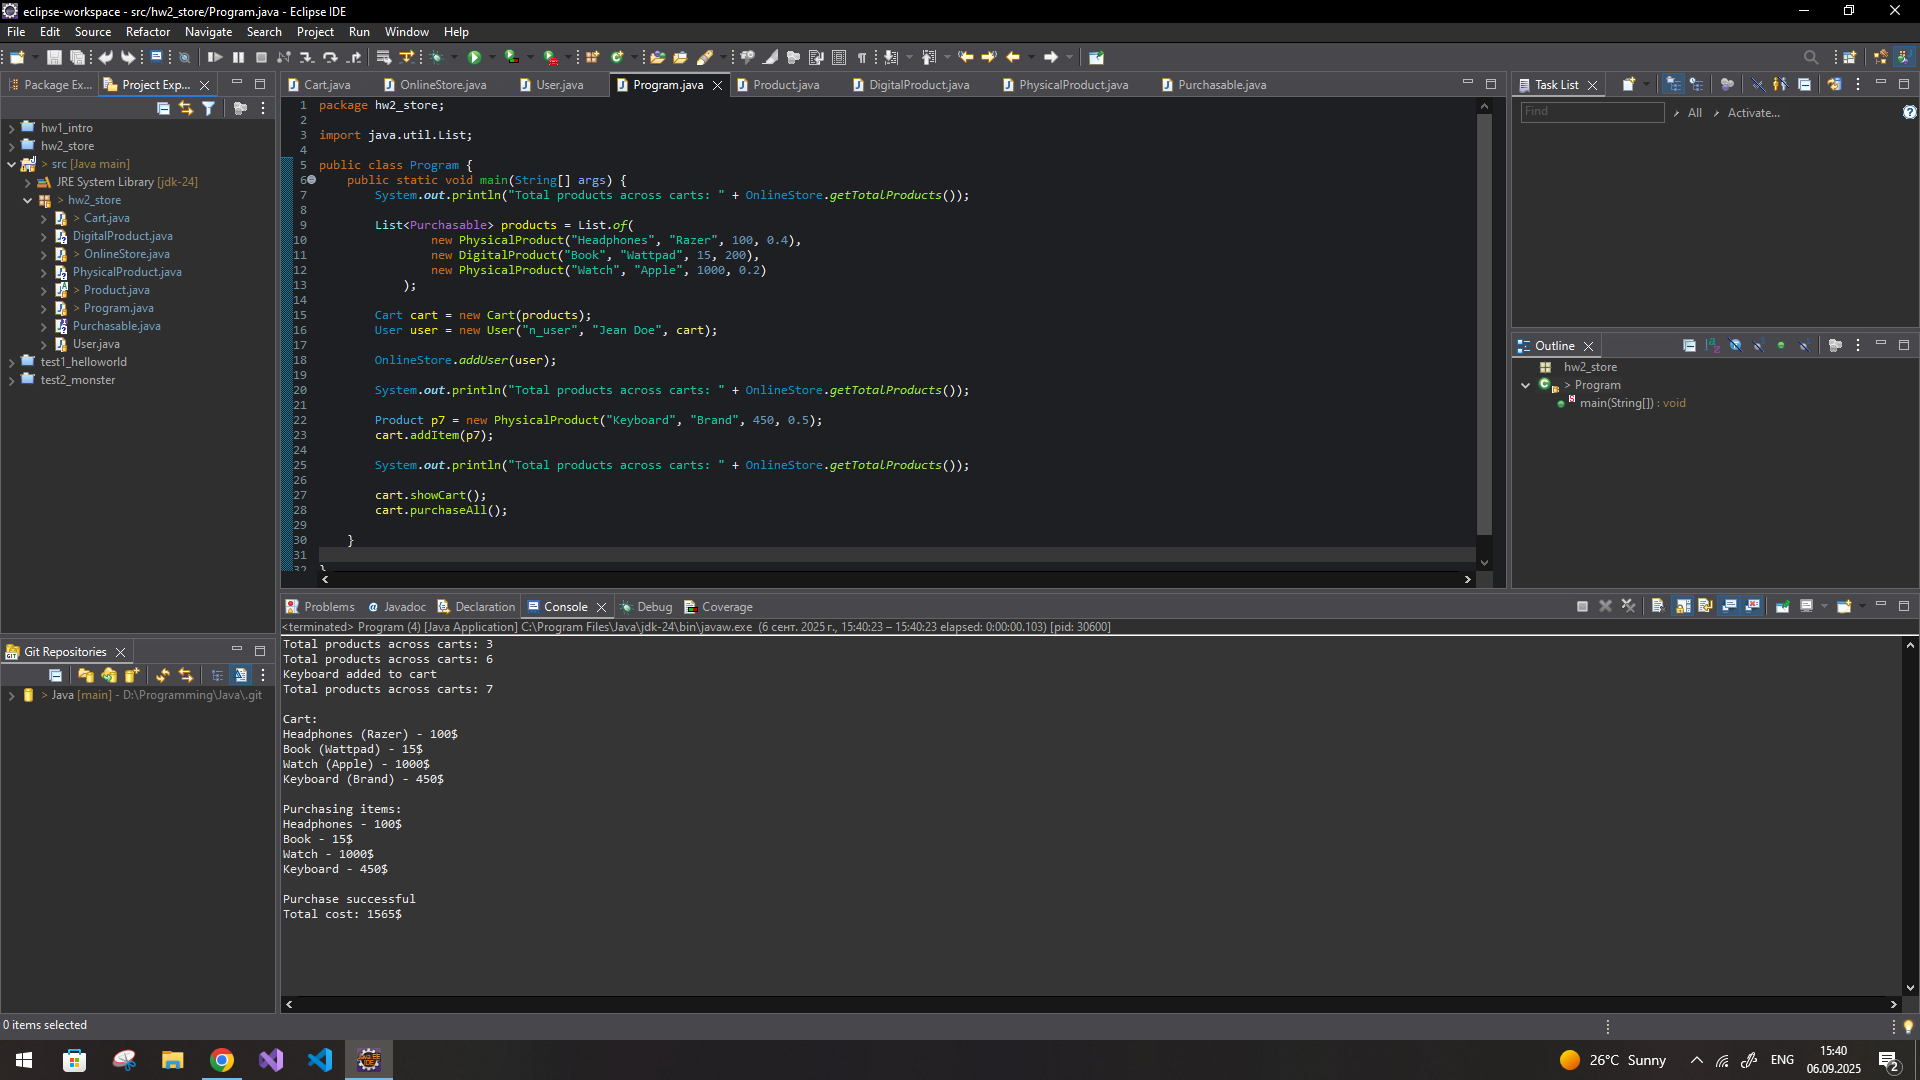
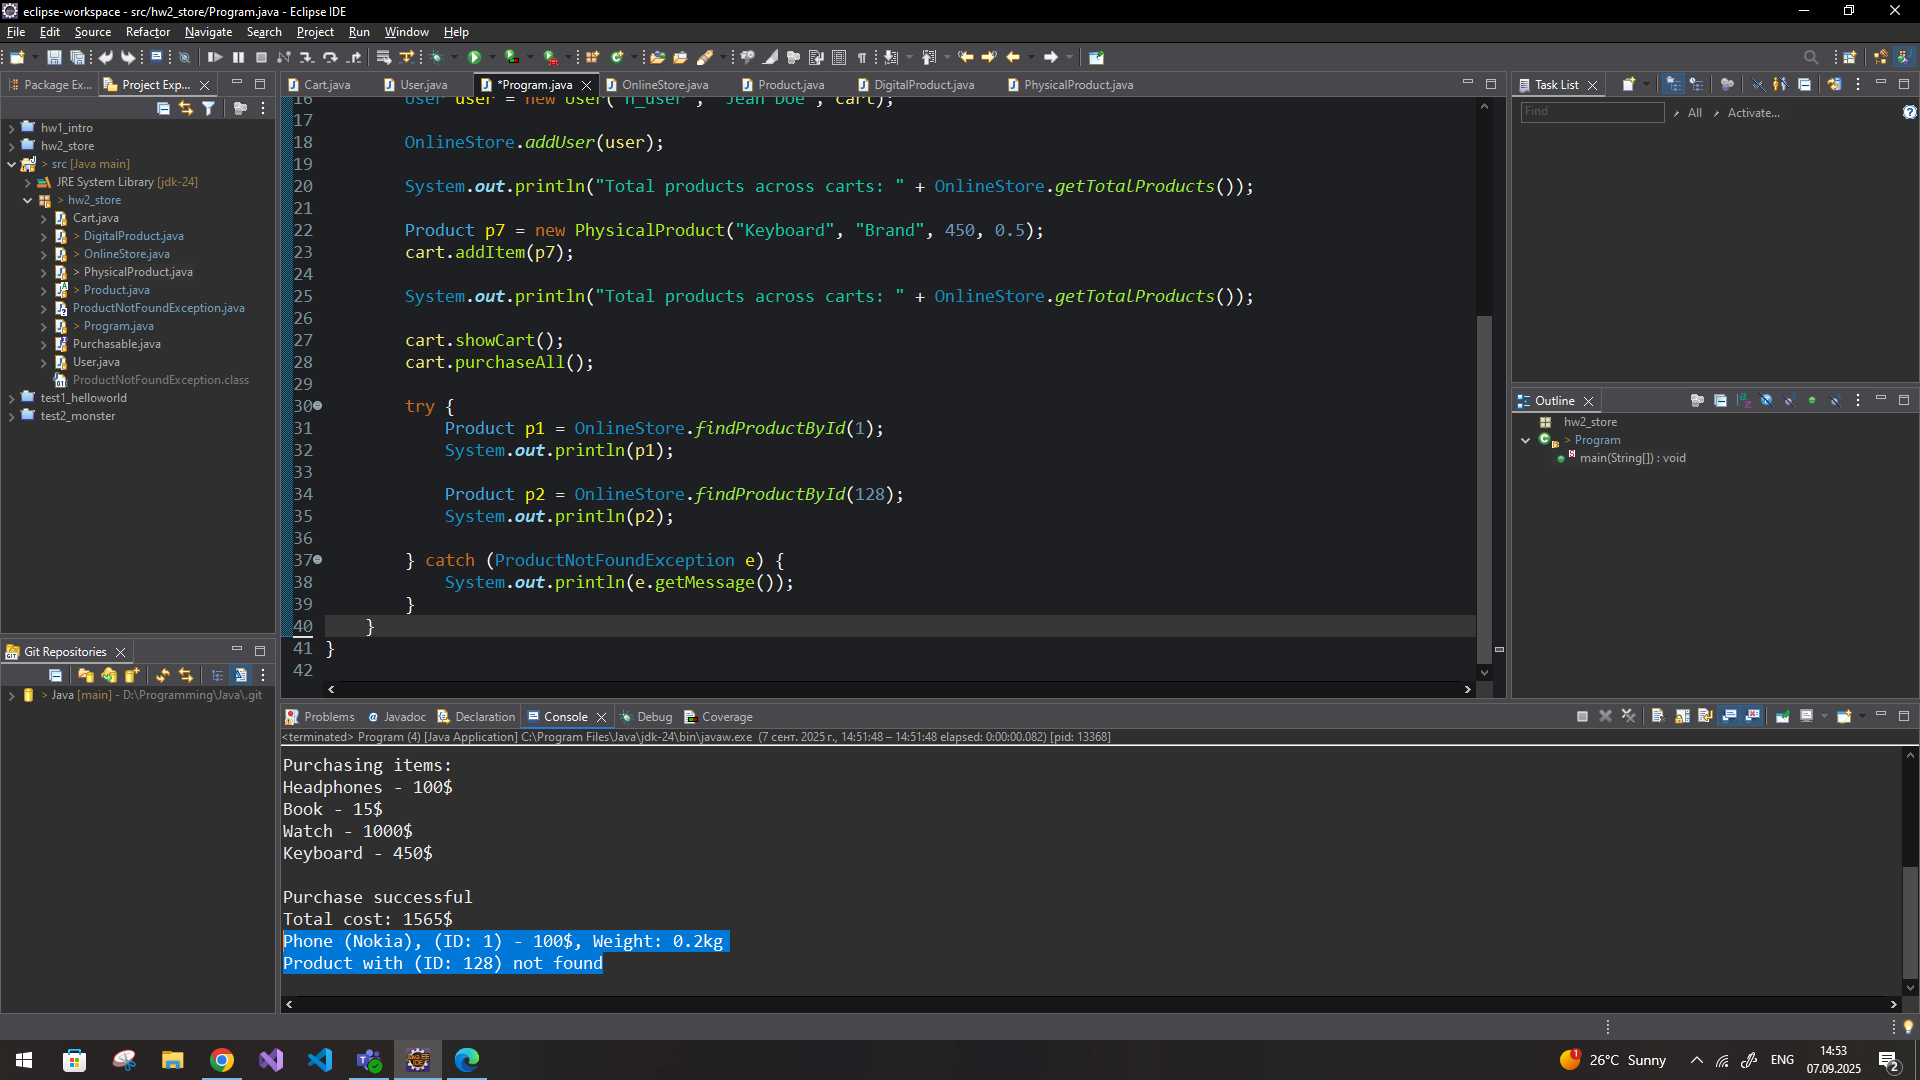
add ProductNotFoundException

diff --git a/hw2_store/src/hw2_store/OnlineStore.java b/hw2_store/src/hw2_store/OnlineStore.java
@@ -66,5 +66,19 @@ public class OnlineStore {
         System.out.println("\nPurchase successful");
         System.out.println("Total cost: " + total + "$");
     }
+    
+    public static Product findProductById(int id) throws ProductNotFoundException {
+        for (User user : users) {
+            for (Cart cart : user.getCarts()) {
+                for (Purchasable item : cart.getItems()) {
+                    if (item instanceof Product product) {
+                        if (product.getId() == id) return product;
+                    }
+                }
+            }
+        }
+        throw new ProductNotFoundException("Product with (ID: " + id + ") not found");
+    }
 
 }
+

diff --git a/hw2_store/src/hw2_store/Product.java b/hw2_store/src/hw2_store/Product.java
@@ -1,11 +1,15 @@
 package hw2_store;
 
 public abstract class Product implements Purchasable {
+
+    private int id;
+	private static int incrId = 1;
 	private String name;
 	private String brand;
 	private int price;
 	
 	public Product(String name, String brand, int price) {
+		this.id = incrId++;
         this.name = name;
         this.brand = brand;
         this.setPrice(price);
@@ -17,6 +21,9 @@ public abstract class Product implements Purchasable {
         this.setPrice(0);
 	}
 
+	public int getId() {
+        return id;
+    }
 	public int getPrice() {
 		return price;
 	}

diff --git a/hw2_store/src/hw2_store/Program.java b/hw2_store/src/hw2_store/Program.java
@@ -26,7 +26,16 @@ public class Program {
 		
 		cart.showCart();
 		cart.purchaseAll();
-
+		
+		try {
+            Product p1 = OnlineStore.findProductById(1);
+            System.out.println(p1);
+            
+            Product p2 = OnlineStore.findProductById(128);
+            System.out.println(p2);
+            
+        } catch (ProductNotFoundException e) {
+            System.out.println(e.getMessage());
+        }
 	}
-
 }

diff --git a/hw2_store/src/hw2_store/DigitalProduct.java b/hw2_store/src/hw2_store/DigitalProduct.java
@@ -23,6 +23,8 @@ public class DigitalProduct extends Product {
     
     @Override
     public String toString() {
-        return getName() + " (" + getBrand() + ") - " + getPrice() + "$, Memory: " + memorySize + "mb";
+        return getName() + " (" + getBrand() + "), (ID: " + getId() + ") - " + getPrice() + "$, Memory: " + memorySize + "mb";
+        
     }
+
 }

diff --git a/hw2_store/src/hw2_store/PhysicalProduct.java b/hw2_store/src/hw2_store/PhysicalProduct.java
@@ -23,6 +23,6 @@ public class PhysicalProduct extends Product {
 
     @Override
     public String toString() {
-        return getName() + " (" + getBrand() + ") - " + getPrice() + "$, Weight: " + weight + "kg";
+        return getName() + " (" + getBrand() + "), (ID: " + getId() + ") - " + getPrice() + "$, Weight: " + weight + "kg";
     }
 }

diff --git a/hw2_store/src/hw2_store/ProductNotFoundException.java b/hw2_store/src/hw2_store/ProductNotFoundException.java
@@ -1,0 +1,10 @@
+package hw2_store;
+
+public class ProductNotFoundException extends Exception {
+
+	private static final long serialVersionUID = -4376746570433411484L;
+
+	public ProductNotFoundException(String message) {
+        super(message);
+    }
+}
